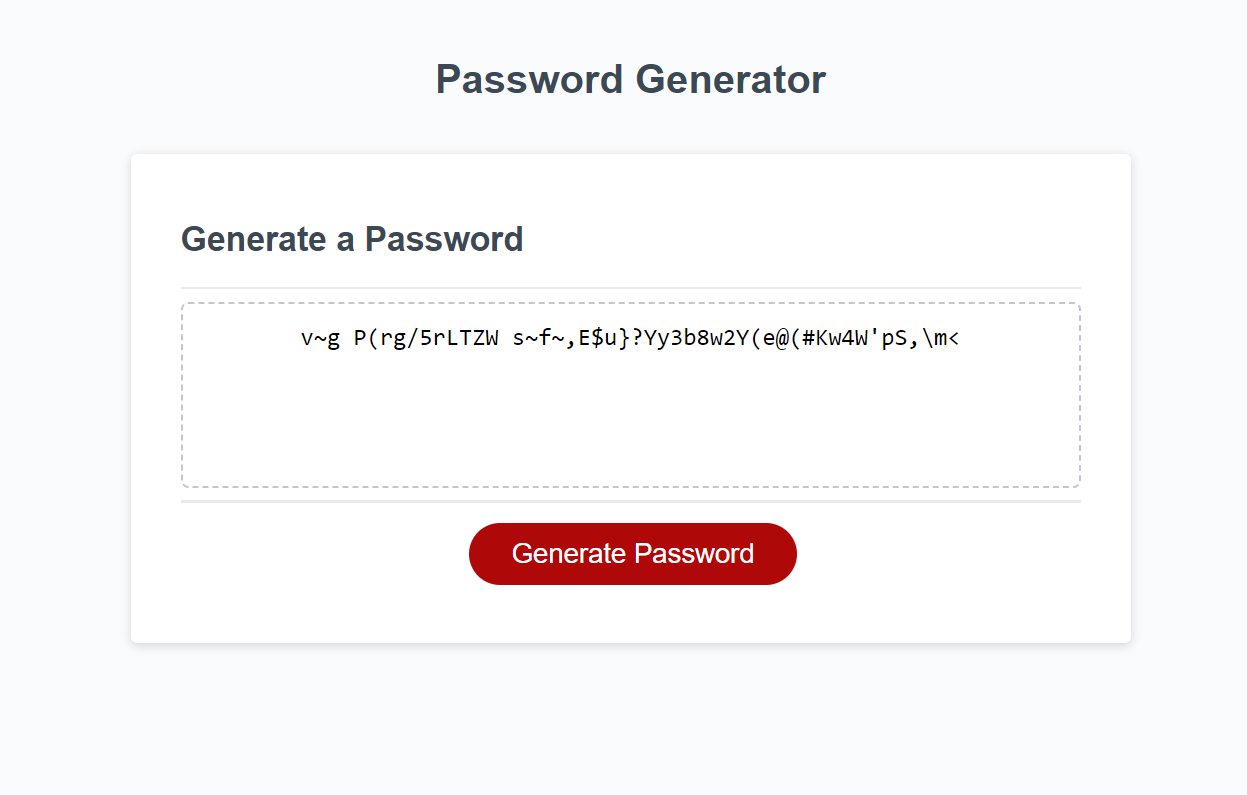
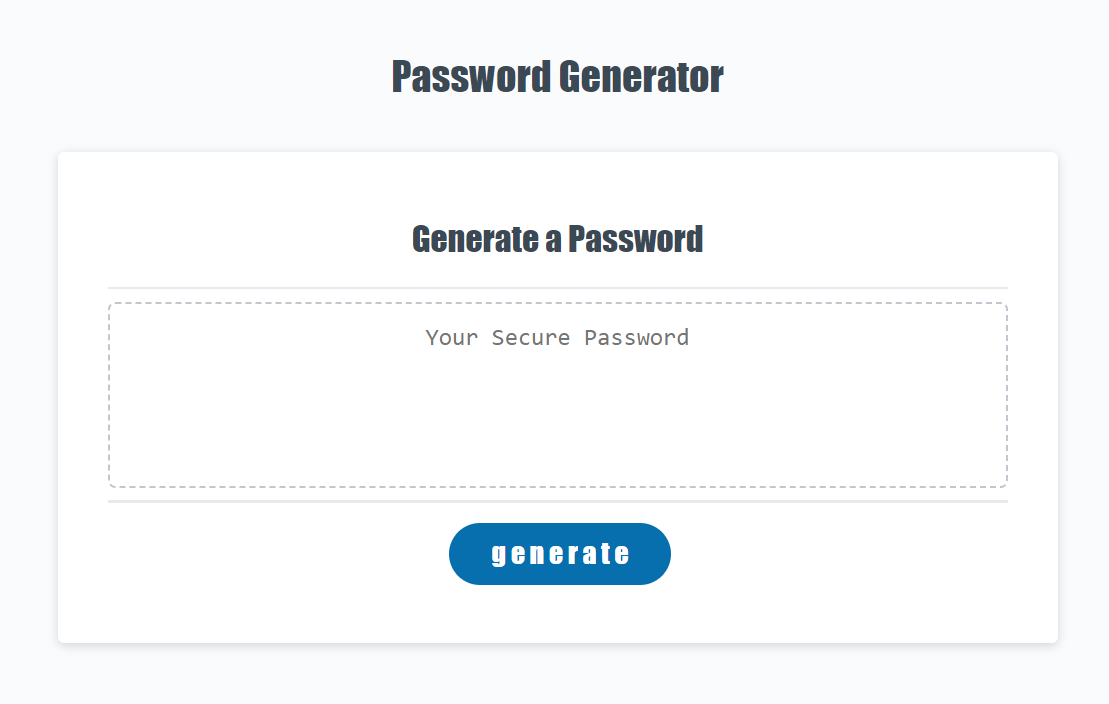
changed the screenshot 1 to reflect the  cosmetic changes of the html

diff --git a/README.md b/README.md
@@ -42,7 +42,7 @@ The following image shows the web application's appearance and functionality:
 ![The Password Generator application displays a red button to "Generate Password".](./Assets/03-javascript-homework-demo.png)
 
 ## Screenshots
-[Example of generated pasword](Assets/Screenshot1.png)
+[Example of generated pasword](./Assets/Screenshot1.png)
 
 
 ## Live Deployed Link
